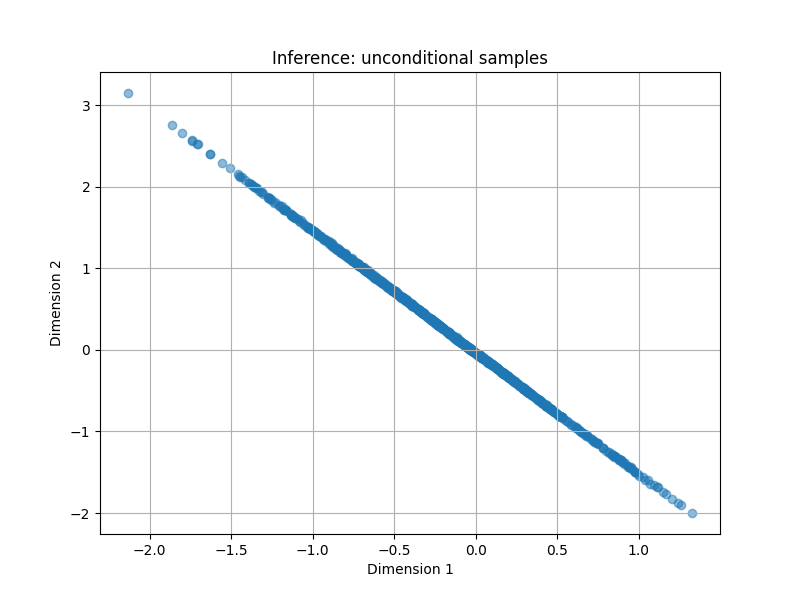
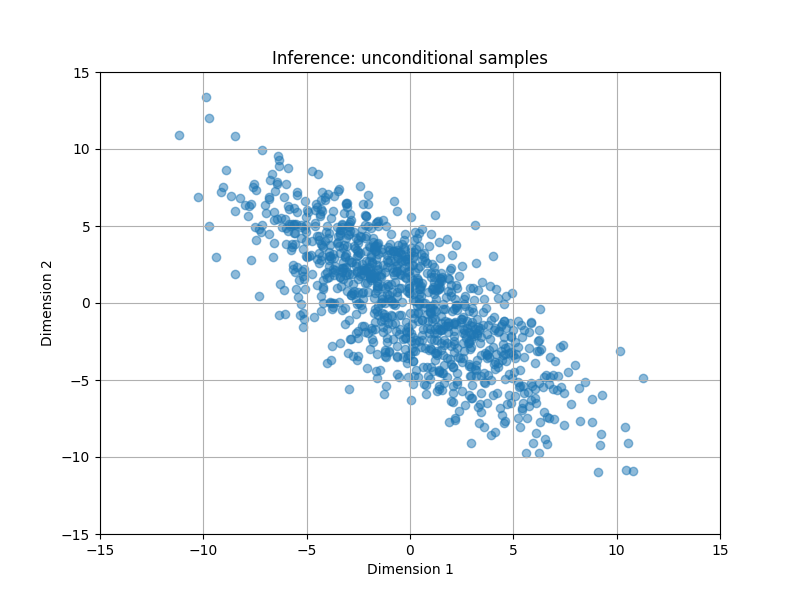
changed the function for the anisotropic data

diff --git a/bitnet_vae/train_and_eval.py b/bitnet_vae/train_and_eval.py
@@ -7,7 +7,7 @@ from torch.optim import Adam
 
 from bitnet_vae.vae import VAE
 
-DATA = "normal"  # "normal" or "anisotropic"
+DATA = "anisotropic"  # "normal" or "anisotropic"
 
 PLOT_DIR = Path(f"../plots/{DATA}")
 CHECKPOINT_DIR = Path("../checkpoints/")
@@ -20,15 +20,19 @@ torch.manual_seed(0)
 
 
 def get_data():
-    def generate_gaussian_data(n_samples=1000, mean=[5, 5], cov=[[1, 0], [0, 1]]):
+    def generate_gaussian_data(n_samples=1000, mean=[0, 0], cov=[[1, 0], [0, 1]]):
         data = np.random.multivariate_normal(mean, cov, n_samples)
         return torch.tensor(data, dtype=torch.float32)
 
     def generate_anisotropic_single_gaussian(n_samples=1000):
         X = generate_gaussian_data()
         transformation_matrix = np.array(
-            [[0.6, -0.6], [-0.4, 0.8]]
+            [[5, 0], [0, 2]]
         )  # This creates an anisotropic effect
+        rot_mat = np.array(
+            [[np.sqrt(2) / 2, -np.sqrt(2) / 2], [np.sqrt(2) / 2, np.sqrt(2) / 2]]
+        )
+        transformation_matrix = transformation_matrix @ rot_mat
         data = np.dot(X, transformation_matrix)
         return torch.tensor(data, dtype=torch.float32)
 
@@ -52,6 +56,8 @@ def plot_data(
     plt.xlabel(x)
     plt.ylabel(y)
     plt.grid(True)
+    plt.xlim(-15, 15)
+    plt.ylim(-15, 15)
     plt.savefig(path)
     plt.close()
 
